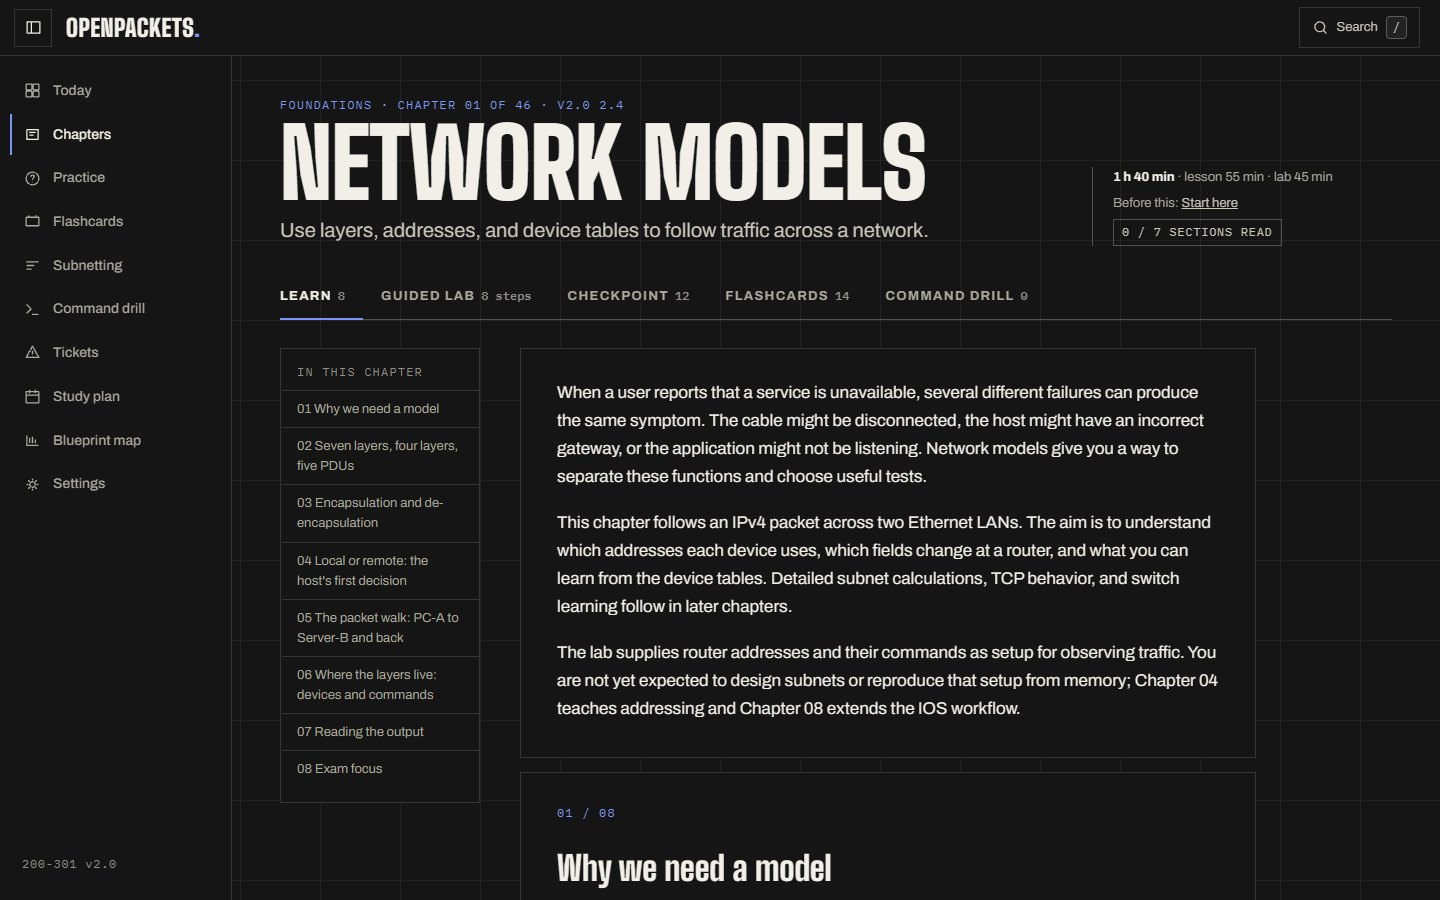
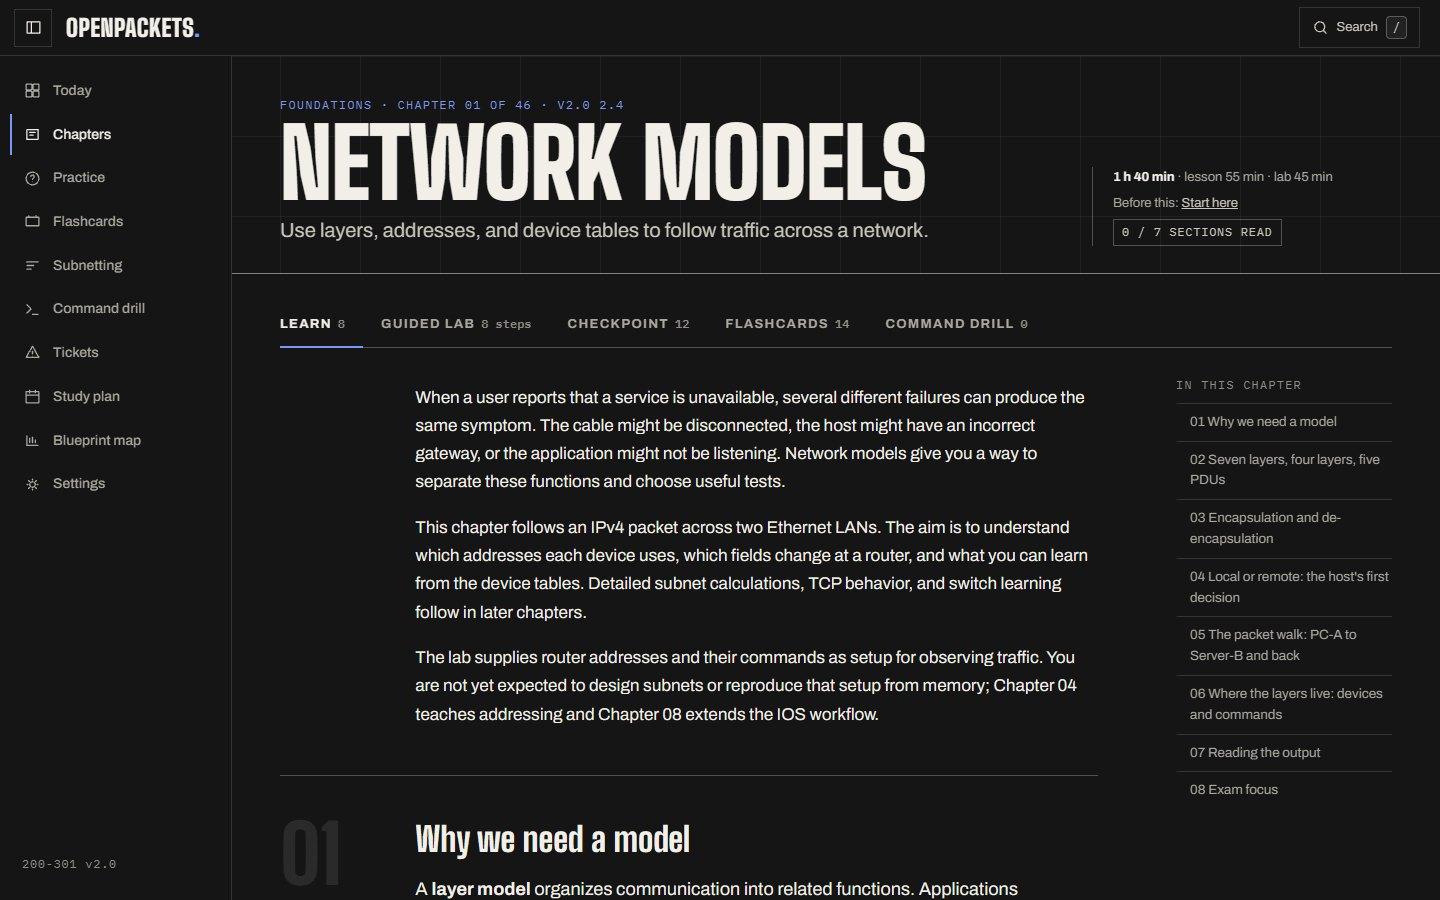
Editorial lesson layout and wider reading on desktop
Layout
- Lessons sit on the page instead of in boxes: sections are divided by
  a rule and numbered in the left margin, and the contents list moves
  to the right
- The grid now appears only in a band behind each page heading
- Pages are centered beside the menu and can be slightly wider
- Lesson, lab and question text scales gently with the window (about
  17px on a laptop, 18px at most) and allows slightly longer lines

Lessons
- Replace the "Can you explain this section?" checkbox with a Mark as
  read button and a link to the next section; progress tracking is
  unchanged

Docs
- Retake the README screenshots

diff --git a/src/styles/app.css b/src/styles/app.css
@@ -17,7 +17,10 @@
   --font-mono: "IBM Plex Mono", ui-monospace, SFMono-Regular, Menlo, Consolas, monospace;
   --ease-enter: cubic-bezier(.16, 1, .3, 1); --ease-exit: cubic-bezier(.4, 0, 1, 1); --ease-move: cubic-bezier(.2, 0, 0, 1);
   --t-fast: 120ms; --t-base: 200ms; --t-slow: 320ms; --t-xslow: 520ms;
-  --nav-w: 232px; --measure: 68ch; --grid: 80px;
+  --nav-w: 232px; --measure: 70ch; --grid: 80px;
+  /* Reading scale: lesson, lab and question text grows with the window, so the column gets wider on a
+     desktop while a line stays at about 85 characters. */
+  --read: clamp(16.5px, 15px + .14vw, 18px); --read-pad: clamp(24px, 2.6vw, 52px);
   color-scheme: dark;
 }
 :root[data-theme="darkest"] {
@@ -132,7 +135,8 @@ h2.display { font-size: clamp(28px, 4vw, 44px); }
 }
 
 /* ---- page primitives ---- */
-.page { max-width: 1240px; display: flex; flex-direction: column; gap: 28px; }
+/* Centred in the space beside the menu, so a wide window has even margins instead of one empty side. */
+.page { width: 100%; max-width: 1240px; margin-inline: auto; display: flex; flex-direction: column; gap: 28px; }
 .page.narrow { max-width: 860px; }
 .page-head { display: flex; flex-direction: column; gap: 10px; }
 .page-head .lead { font-size: 18px; color: var(--ink-2); max-width: 64ch; }
@@ -243,7 +247,7 @@ button.link { min-height: 24px; }
 .chapter-row .n { font-family: var(--font-display); font-weight: 800; font-size: 28px; color: var(--ink-3); }
 .chapter-row.done .n { color: var(--ok); }
 .chapter-row b { display: block; font-size: 17px; }
-.chapter-row small { color: var(--ink-3); display: block; }
+.chapter-row small { color: var(--ink-3); display: block; font-size: 14px; }
 .chapter-row .meta { font-family: var(--font-mono); font-size: 12px; color: var(--ink-3); text-align: right; }
 .chapter-row .tags { display: flex; gap: 6px; flex-wrap: wrap; margin-top: 4px; }
 .chapter-row.optional { opacity: .8; }
@@ -258,21 +262,21 @@ button.link { min-height: 24px; }
 .tabs a { padding: 12px 18px 12px 0; margin-right: 18px; font-size: 13px; font-weight: 700; letter-spacing: .1em; text-transform: uppercase; color: var(--ink-3); text-decoration: none; white-space: nowrap; border-bottom: 2px solid transparent; margin-bottom: -1px; transition: color var(--t-fast), border-color var(--t-base) var(--ease-move); }
 .tabs a.on { color: var(--ink); border-bottom-color: var(--accent-text); }
 .tabs a small { font-family: var(--font-mono); font-size: 12px; letter-spacing: 0; text-transform: none; color: var(--ink-4); margin-left: 6px; }
-.lesson-layout { display: grid; grid-template-columns: 200px minmax(0, 1fr); gap: 40px; align-items: start; }
+.lesson-layout { display: grid; grid-template-columns: clamp(200px, 15vw, 260px) minmax(0, 1fr); gap: clamp(28px, 2.6vw, 48px); align-items: start; }
 /* No quick-skip panel (the whole-library deck and drill): the content fills the column, flush with the page heading. */
 .lesson-layout.no-nav { grid-template-columns: minmax(0, 1fr); }
 .lesson-layout.no-nav .article { max-width: none; }
-.lesson-toc { position: sticky; top: calc(var(--ticker-vis) + var(--topbar-h) + 20px); display: flex; flex-direction: column; font-size: 13px; }
+.lesson-toc { position: sticky; top: calc(var(--ticker-vis) + var(--topbar-h) + 20px); display: flex; flex-direction: column; font-size: clamp(13px, 11.4px + .14vw, 14px); }
 .lesson-toc a { padding: 8px 0 8px 10px; border-top: 1px solid var(--line); color: var(--ink-3); text-decoration: none; border-left: 2px solid transparent; margin-left: -12px; padding-left: 12px; transition: color var(--t-fast); }
 .lesson-toc a:hover { color: var(--ink); }
 .lesson-toc a.on { color: var(--ink); border-left-color: var(--accent-text); }
 .lesson-toc a.done { color: var(--ink-4); }
 .lesson-toc a.done::before, .lesson-toc .toc-link.done::before { content: "\2713\00a0"; color: var(--ok); }
 .lesson-toc .eyebrow { padding-bottom: 8px; }
-.article { max-width: var(--measure); display: flex; flex-direction: column; gap: 22px; font-size: 17px; line-height: 1.65; }
+.article { max-width: var(--measure); display: flex; flex-direction: column; gap: 22px; font-size: var(--read); line-height: 1.65; }
 /* Section titles keep their written case: IPv4, OSPFv2 and PortFast must not read as IPV4, OSPFV2 and PORTFAST. */
-.article .md h2, .article h2.section-title { font-family: var(--font-display); font-weight: 800; font-size: 34px; letter-spacing: 0; line-height: 1.05; margin-top: 12px; }
-.article .md h3, .article .md h4 { font-size: 20px; line-height: 1.3; margin-top: 18px; }
+.article .md h2, .article h2.section-title { font-family: var(--font-display); font-weight: 800; font-size: 1.9em; letter-spacing: 0; line-height: 1.05; margin-top: 12px; }
+.article .md h3, .article .md h4 { font-size: 1.18em; line-height: 1.3; margin-top: 18px; }
 .md > *:first-child { margin-top: 0; }
 .md p { margin: 0 0 1.05em; }
 .md p:last-child { margin-bottom: 0; }
@@ -289,18 +293,28 @@ button.link { min-height: 24px; }
 table { border-collapse: collapse; width: 100%; font-size: 14px; font-variant-numeric: tabular-nums; }
 th { text-align: left; font-family: var(--font-mono); font-size: 12px; letter-spacing: .06em; text-transform: uppercase; color: var(--ink-3); padding: 8px 10px; border-bottom: 1px solid var(--line-3); font-weight: 600; }
 td { padding: 9px 10px; border-bottom: 1px solid var(--line); vertical-align: top; }
-td code { font-size: 13px; }
+td code { font-size: .92em; }
+/* Supporting text inside a lesson follows the reading scale instead of staying at a fixed small size. */
+.article table { font-size: max(14px, .86em); }
+.article .cli-block { font-size: max(13px, .78em); }
+.article .section-foot, .article .check { font-size: max(14px, .82em); }
 details.callout-expected td code { white-space: nowrap; }
 .section { display: flex; flex-direction: column; gap: 16px; scroll-margin-top: calc(var(--topbar-h) + 24px); }
 .section-kicker { font-family: var(--font-mono); font-size: 12px; letter-spacing: .1em; text-transform: uppercase; color: var(--accent-text); }
-.section-check { display: flex; align-items: center; justify-content: space-between; gap: 12px; border-top: 1px solid var(--line); padding-top: 14px; font-size: 14px; color: var(--ink-3); }
+/* End of a section: mark it read, or go on to the next one. */
+.section-foot { display: flex; flex-wrap: wrap; align-items: center; justify-content: space-between; gap: 12px 24px; margin-top: 10px; padding-top: 18px; border-top: 1px solid var(--line); font-size: 14px; color: var(--ink-3); }
+.section-read { display: inline-flex; align-items: center; gap: 14px; min-height: 36px; }
+.section-read b { color: var(--ok); }
+.section-next { display: inline-flex; align-items: baseline; gap: 10px; min-height: 24px; color: var(--ink); font-weight: 600; text-decoration: none; }
+.section-next:hover { color: var(--accent-text); }
+.section-next span { font-family: var(--font-mono); font-size: 12px; font-weight: 400; letter-spacing: .1em; text-transform: uppercase; color: var(--ink-4); }
 .check { display: inline-flex; align-items: center; gap: 10px; cursor: pointer; font-size: 14px; color: var(--ink-2); }
 .check input { appearance: none; flex: none; width: 22px; height: 22px; border: 1px solid var(--line-3); background: transparent; display: grid; place-items: center; cursor: pointer; transition: background var(--t-fast), border-color var(--t-fast); }
 .check input:checked { background: var(--accent); border-color: var(--accent-text); }
 .check input:checked::after { content: ""; width: 10px; height: 6px; border-left: 2px solid var(--accent-ink); border-bottom: 2px solid var(--accent-ink); transform: translateY(-1px) rotate(-45deg); }
 
 /* callouts */
-.callout { display: flex; flex-direction: column; gap: 8px; padding: 14px 18px; border: 1px solid var(--line-2); font-size: 15px; line-height: 1.55; }
+.callout { display: flex; flex-direction: column; gap: 8px; padding: 14px 18px; border: 1px solid var(--line-2); font-size: max(15px, .9em); line-height: 1.55; }
 .callout .md p, .callout .md ul { margin-bottom: 8px; }
 .callout-label { font-family: var(--font-mono); font-size: 12px; letter-spacing: .1em; text-transform: uppercase; color: var(--ink-3); }
 .callout-facts { border-color: var(--line-3); border-left: 3px solid var(--accent-text); }
@@ -404,14 +418,14 @@ details.callout-expected td code { white-space: nowrap; }
 .lab-step .n { font-family: var(--font-display); font-weight: 900; font-size: 40px; line-height: 1; color: var(--ink-4); }
 .lab-step.done .n { color: var(--ok); }
 .lab-step h3 { font-size: 22px; margin-bottom: 8px; }
-.lab-body { display: flex; flex-direction: column; gap: 14px; font-size: 16px; }
+.lab-body { display: flex; flex-direction: column; gap: 14px; font-size: max(16px, calc(var(--read) - 1.5px)); }
 .lab-body .cli-block { max-width: none; }
 
 /* ---- practice / questions ---- */
 .q-card { display: flex; flex-direction: column; gap: 16px; border: 1px solid var(--line-2); padding: 24px 28px; scroll-margin-top: calc(var(--topbar-h) + 24px); }
 .q-prompt { font-size: 20px; font-weight: 600; line-height: 1.35; letter-spacing: -.005em; }
 .q-options { display: grid; gap: 8px; }
-.opt { display: flex; align-items: flex-start; gap: 12px; border: 1px solid var(--line); padding: 12px 14px; background: var(--bg); text-align: left; cursor: pointer; font-size: 15px; line-height: 1.45; transition: border-color var(--t-fast), background var(--t-fast); }
+.opt { display: flex; align-items: flex-start; gap: 12px; border: 1px solid var(--line); padding: 12px 14px; background: var(--bg); text-align: left; cursor: pointer; font-size: max(15px, .88em); line-height: 1.45; transition: border-color var(--t-fast), background var(--t-fast); }
 .opt:hover:not(:disabled) { border-color: var(--line-3); background: var(--bg-3); }
 .opt .letter { font-family: var(--font-mono); color: var(--ink-4); width: 18px; flex: none; }
 .opt.sel { border-color: var(--accent-text); } .opt.sel .letter { color: var(--accent-text); }
@@ -419,8 +433,8 @@ details.callout-expected td code { white-space: nowrap; }
 .opt.wrong { border-color: var(--bad); background: var(--bad-soft); animation: shake 280ms ease-out; } .opt.wrong .letter { color: var(--bad); }
 .opt.missed { border-color: var(--ok); border-style: dashed; }
 .opt:disabled { cursor: default; }
-.explain { border-top: 1px solid var(--line-2); padding-top: 14px; display: grid; gap: 10px; font-size: 15px; animation: rise var(--t-slow) var(--ease-enter) both; }
-.explain .why { display: grid; gap: 6px; font-size: 14px; color: var(--ink-2); }
+.explain { border-top: 1px solid var(--line-2); padding-top: 14px; display: grid; gap: 10px; font-size: max(15px, .88em); animation: rise var(--t-slow) var(--ease-enter) both; }
+.explain .why { display: grid; gap: 6px; font-size: max(14px, .82em); color: var(--ink-2); }
 .explain .why b { font-family: var(--font-mono); color: var(--ink-3); margin-right: 6px; }
 .dots { display: flex; gap: 4px; flex-wrap: wrap; }
 .dots button { position: relative; width: 24px; height: 6px; border: 0; padding: 0; background: var(--bg-4); cursor: pointer; transition: background var(--t-fast); }
@@ -645,7 +659,7 @@ p.panel, .md.panel { display: block; }
 .lesson-toc a { margin-left: -16px; margin-right: -16px; padding-left: 14px; padding-right: 16px; }
 .lesson-toc a:focus-visible, .lesson-toc .toc-link:focus-visible { outline-offset: -2px; }
 /* Quick-skip list items that are buttons (lab steps) match the contents links. */
-.lesson-toc .toc-link { display: block; width: calc(100% + 32px); text-align: left; font: inherit; font-size: 13px; color: var(--ink-3); background: transparent; border: 0; border-top: 1px solid var(--line); border-left: 2px solid transparent; padding: 8px 16px 8px 14px; margin-left: -16px; margin-right: -16px; cursor: pointer; }
+.lesson-toc .toc-link { display: block; width: calc(100% + 32px); text-align: left; font: inherit; color: var(--ink-3); background: transparent; border: 0; border-top: 1px solid var(--line); border-left: 2px solid transparent; padding: 8px 16px 8px 14px; margin-left: -16px; margin-right: -16px; cursor: pointer; }
 .lesson-toc .toc-link:hover { color: var(--ink); }
 .lesson-toc .toc-link.on { color: var(--ink); border-left-color: var(--accent-text); }
 .lesson-toc .toc-link.done { color: var(--ink-4); }
@@ -661,10 +675,10 @@ p.panel, .md.panel { display: block; }
 .jump-more { display: block; padding-top: 8px; }
 .list-rows.panel-list { border-top: 1px solid var(--line); }
 /* Keep a comfortable line length after removing the tools column. */
-.lesson-layout .article { gap: 14px; max-width: calc(var(--measure) + 74px); }
-.lesson-layout .section { background: var(--bg); border: 1px solid var(--line); padding: 30px 36px 34px; }
+.lesson-layout .article { gap: 14px; max-width: calc(var(--measure) + 2 * var(--read-pad) + 2px); }
+.lesson-layout .section { background: var(--bg); border: 1px solid var(--line); padding: calc(var(--read-pad) - 6px) var(--read-pad) calc(var(--read-pad) - 2px); }
 /* Normal document flow keeps scroll positions stable without height-measurement passes. */
-.lesson-layout .article > .callout { background: var(--bg); padding: 20px 36px; }
+.lesson-layout .article > .callout { background: var(--bg); padding: 20px var(--read-pad); }
 
 /* Surfaces that already had a frame now get the solid fill too. */
 .q-card, .cmd-drill, .callout, .notice, .empty, .seg, .grades button, .btn.ghost, .btn.ghost:hover { background: var(--bg); }
@@ -727,6 +741,52 @@ p.panel, .md.panel { display: block; }
 }
 @media (max-width: 400px) {
   .brand { font-size: 20px; }
+}
+/* ===== Editorial layout =====
+   Reading sits on the page instead of in boxes. The grid appears only in the band behind each page
+   heading; lesson sections are divided by a rule and numbered in the margin. */
+.shell::before { display: none; }
+.page { max-width: 1320px; }
+.page > .page-head, .page > .chapter-head, .page > .hero-row { position: relative; padding-bottom: 28px; }
+.page > .page-head::before, .page > .chapter-head::before, .page > .hero-row::before { content: ""; position: absolute; z-index: -1; top: -40px; bottom: 0; left: -100vw; right: -100vw; pointer-events: none; background-image: linear-gradient(var(--grid-line) 1px, transparent 1px), linear-gradient(90deg, var(--grid-line) 1px, transparent 1px); background-size: var(--grid) var(--grid); border-bottom: 1px solid var(--line-3); }
+.hero-row + .rule { display: none; }
+
+/* Lesson: margin numeral, text, then the contents list on the right. */
+.lesson-layout { --num-col: clamp(88px, 7vw, 132px); --num-gap: clamp(24px, 2.4vw, 40px); grid-template-columns: minmax(0, 1fr) clamp(200px, 15vw, 260px); }
+.lesson-layout.no-nav { grid-template-columns: minmax(0, 1fr); }
+.lesson-layout > .lesson-toc { order: 2; background: none; border: 0; padding: 0; }
+.lesson-toc a, .lesson-toc .toc-link { width: 100%; margin-left: 0; margin-right: 0; padding-left: 12px; padding-right: 0; }
+.lesson-layout .article.lesson { gap: 0; max-width: calc(var(--num-col) + var(--num-gap) + var(--measure)); }
+.lesson-layout .section { display: grid; grid-template-columns: var(--num-col) minmax(0, 1fr); column-gap: var(--num-gap); row-gap: 18px; align-content: start; background: none; border: 0; border-top: 1px solid var(--line-2); padding: clamp(30px, 3.2vw, 52px) 0; }
+.lesson-layout .section:first-child { border-top: 0; padding-top: 8px; }
+.lesson-layout .section > * { grid-column: 2; min-width: 0; }
+.lesson-layout .section > .section-kicker { grid-column: 1; grid-row: 1 / span 2; align-self: start; display: flex; flex-direction: column; gap: 10px; }
+/* The large numeral is decoration; the small "01 / 09" under it carries the information. */
+.section-kicker b { font-family: var(--font-display); font-weight: 900; font-size: clamp(64px, 5.6vw, 104px); line-height: .8; letter-spacing: -.02em; color: var(--bg-4); }
+.article .md h2, .article h2.section-title { font-size: 2em; line-height: 1.05; margin-top: 0; }
+.lesson-layout .section-title + .md > p:first-child { font-size: 1.06em; line-height: 1.6; }
+.article.lesson .callout { background: none; border-width: 1px 0; border-style: solid; border-color: var(--line-2); padding: 18px 0; }
+.article.lesson .callout-facts { border-left: 0; border-color: var(--accent-line); }
+.article.lesson .callout-expected { border-left: 0; border-color: var(--ok); }
+.article.lesson .callout-trap { border-color: var(--accent-text); }
+.article.lesson .callout-warning { border-color: var(--warn); }
+.article.lesson .callout-tip, .article.lesson .callout-note { border-style: dashed; }
+.lesson-layout .article.lesson > .callout { margin-left: calc(var(--num-col) + var(--num-gap)); padding: 20px 0; background: none; }
+@media (max-width: 1100px) {
+  .lesson-layout { grid-template-columns: minmax(0, 1fr) 180px; }
+  .lesson-layout .article.lesson { max-width: var(--measure); }
+  .lesson-layout .section { grid-template-columns: minmax(0, 1fr); padding: 30px 0; }
+  .lesson-layout .section > *, .lesson-layout .section > .section-kicker { grid-column: 1; grid-row: auto; }
+  .section-kicker b { display: none; }
+  .lesson-layout .article.lesson > .callout { margin-left: 0; padding: 18px 0; }
+}
+@media (max-width: 1000px) {
+  .lesson-layout > .lesson-toc { order: 0; padding-bottom: 8px; }
+}
+@media (max-width: 800px) {
+  .page > .page-head::before, .page > .chapter-head::before, .page > .hero-row::before { top: -24px; }
+  .lesson-layout .section { padding: 26px 0; }
+  .lesson-layout .article.lesson > .callout { padding: 18px 0; }
 }
 html[data-motion="reduced"] *, html[data-motion="reduced"] *::before, html[data-motion="reduced"] *::after, html[data-motion="reduced"] *::backdrop { animation-duration: .01ms !important; animation-delay: 0s !important; animation-iteration-count: 1 !important; transition-duration: .01ms !important; transition-delay: 0s !important; }
 html[data-motion="reduced"] .reveal > * { opacity: 1; transform: none; }

diff --git a/src/pages/Chapter.tsx b/src/pages/Chapter.tsx
@@ -104,22 +104,30 @@ function LessonToc({ c, done }: { c: ReadingChapter; done: string[] }) {
   );
 }
 
+/** End of a section: one clear action that records it as read, and a way on to the next section. */
+function SectionFoot({ chapterId, id, title, read, next }: { chapterId: string; id: string; title: string; read: boolean; next?: { id: string; title: string } }) {
+  const toggle = () => toggleInList(chapterId, "sectionsDone", id);
+  return (
+    <div className="section-foot">
+      {read
+        ? <span className="section-read"><b>✓ Read</b><button type="button" className="link" onClick={toggle} aria-label={`Mark as unread: ${title}`}>Undo</button></span>
+        : <button type="button" className="btn sm" onClick={toggle} aria-label={`Mark as read: ${title}`}>Mark as read</button>}
+      {next && <a className="section-next" href={"#s-" + next.id} onClick={(e) => { e.preventDefault(); document.getElementById("s-" + next.id)?.scrollIntoView({ block: "start" }); }}><span>Next</span>{next.title} →</a>}
+    </div>
+  );
+}
+
 /** The lesson text. Memoised: it re-renders only when the chapter or its "I can" ticks change, not on scroll or the reading timer. */
 const LessonArticle = memo(function LessonArticle({ c, done }: { c: ReadingChapter; done: string[] }) {
   const sections = c.sections;
   const teach = sections.filter((s) => s.id !== "intro");
   return (
-    <article className="article">
+    <article className="article lesson">
       {sections.map((s, i) => (
         <section key={s.id} id={"s-" + s.id} className="section">
-          {s.id !== "intro" && <><div className="section-kicker">{String(teach.indexOf(s) + 1).padStart(2, "0")} / {String(teach.length).padStart(2, "0")}</div><h2 className="section-title">{s.title}</h2></>}
+          {s.id !== "intro" && <><div className="section-kicker"><b aria-hidden="true">{String(teach.indexOf(s) + 1).padStart(2, "0")}</b><span>{String(teach.indexOf(s) + 1).padStart(2, "0")} / {String(teach.length).padStart(2, "0")}</span></div><h2 className="section-title">{s.title}</h2></>}
           <Markdown text={s.body} />
-          {isCheckableSection(s) && (
-            <div className="section-check">
-              <span>Can you explain this section in your own words?</span>
-              <label className="check"><input type="checkbox" checked={done.includes(s.id)} onChange={() => toggleInList(c.id, "sectionsDone", s.id)} /> I can</label>
-            </div>
-          )}
+          {isCheckableSection(s) && <SectionFoot chapterId={c.id} id={s.id} title={s.title} read={done.includes(s.id)} next={teach[teach.indexOf(s) + 1]} />}
         </section>
       ))}
       <div className="callout callout-tip"><div className="callout-label">Next</div><p>Do the guided lab, then take the checkpoint without looking back at the lesson. <a href={chapterHref(c.id, "lab")}>Open the lab →</a></p></div>

diff --git a/src/styles/lab.css b/src/styles/lab.css
@@ -12,7 +12,7 @@
 /* Sits under the chapter title (h1, up to 96px): a section heading, not a second page title. */
 .lab-m .lab-m-title { margin: 0; max-width: 26ch; font-size: clamp(32px, 4.4cqi, 52px); line-height: 1; letter-spacing: -.005em; }
 .lab-m .lab-m-hero-grid { display: grid; grid-template-columns: minmax(0, 1.65fr) minmax(0, 1fr); gap: 36px; align-items: start; }
-.lab-m .lab-m-intro .md p { font-size: 15px; line-height: 1.6; color: var(--ink-2); }
+.lab-m .lab-m-intro .md p { font-size: max(15px, calc(var(--read) - 2.5px)); line-height: 1.6; color: var(--ink-2); }
 .lab-m .lab-m-intro .md p.lab-m-notice { padding: 10px 14px; border: 1px solid var(--line-2); font-size: 14px; line-height: 1.55; }
 .lab-m .lab-m-kit { border: 1px solid var(--line-2); background: var(--bg-2); display: flex; flex-direction: column; }
 .lab-m .lab-m-kit dl { margin: 0; }
